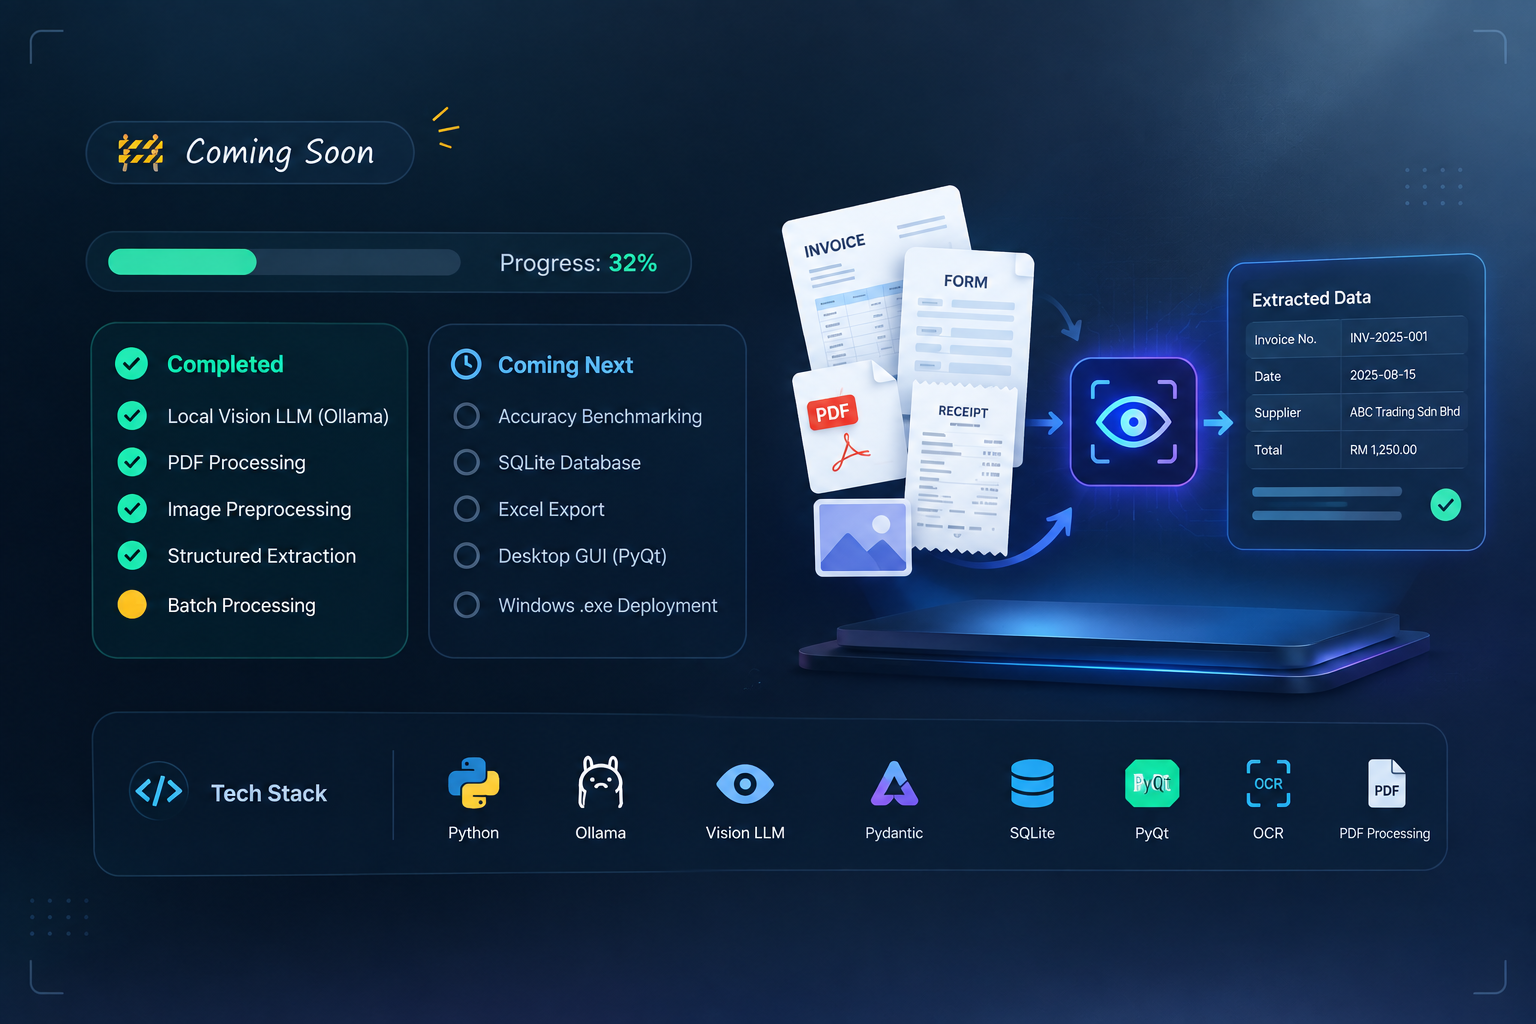
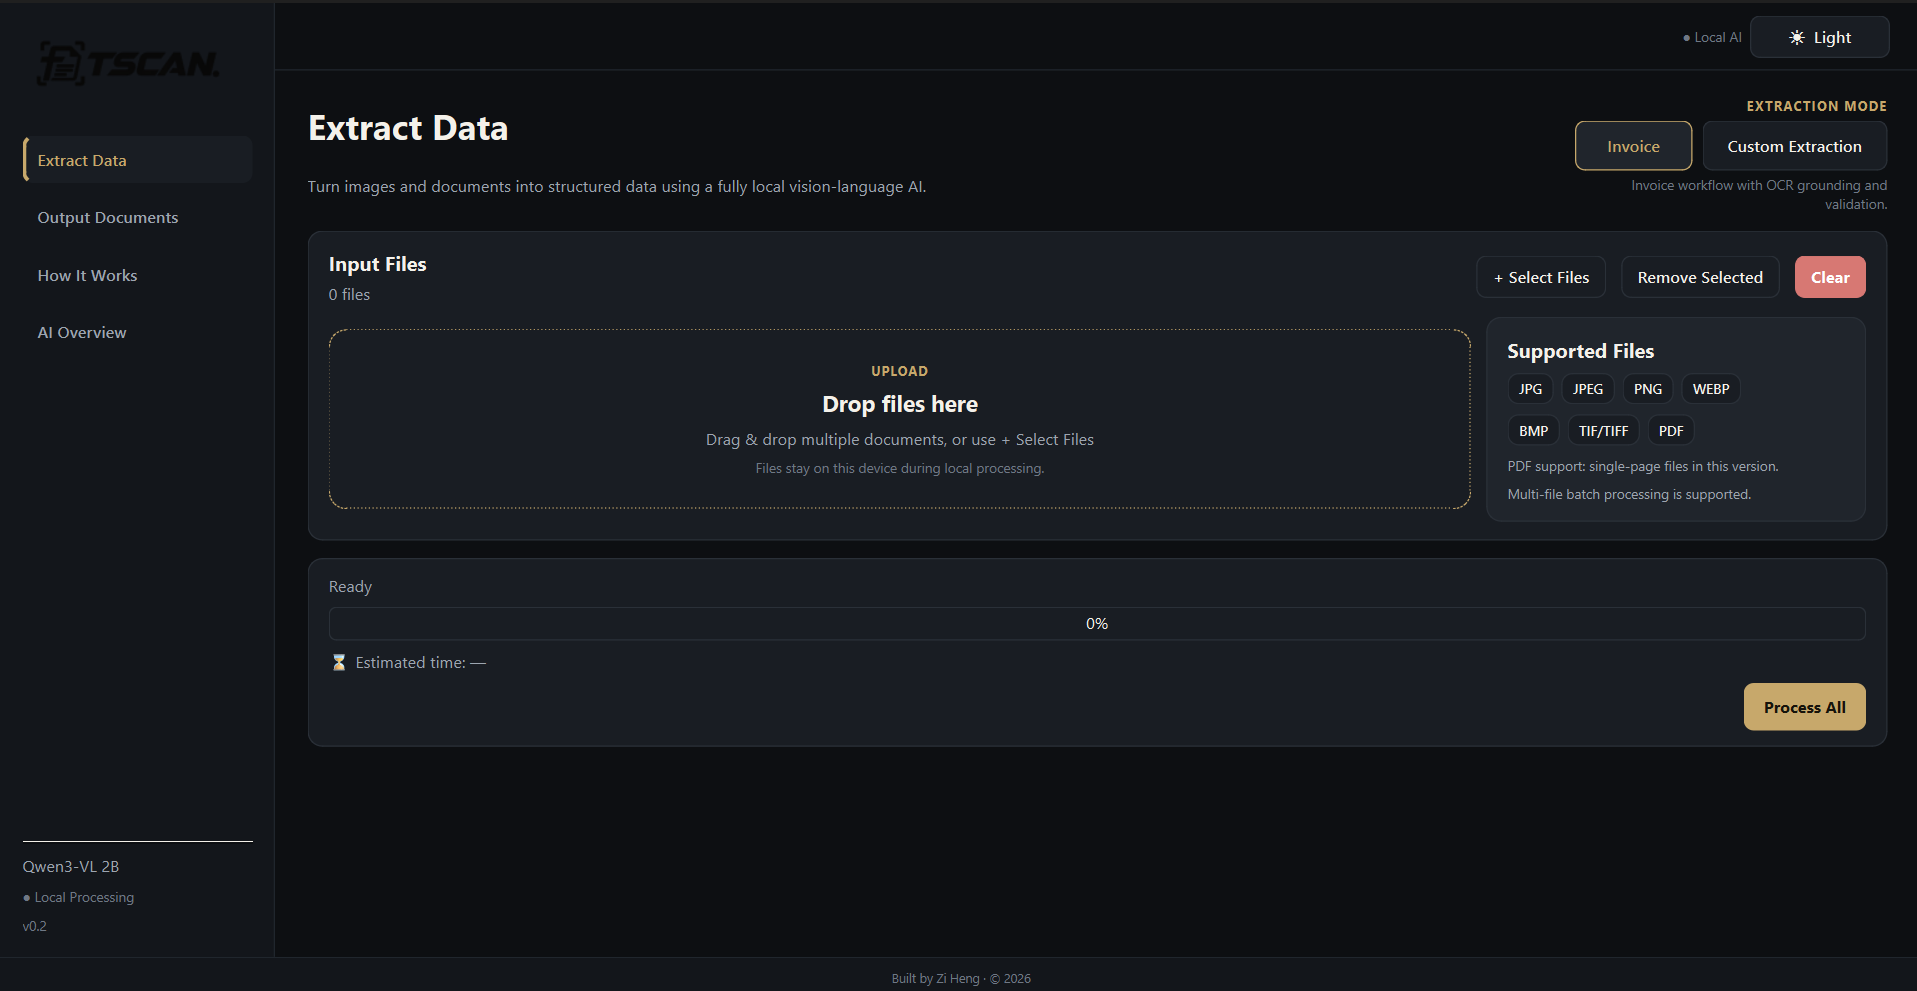
Update new project

diff --git a/archive.html b/archive.html
@@ -617,15 +617,15 @@ const PROJECTS = [
     demo: 'https://www.youtube.com/watch?v=-lDgSbSYgcY'
   },
   {
-    id: 'vision-llm-document-extraction',
+    id: 'LLM-Powered-Document-Data-Extraction-System',
     category: 'applied-work',
     status: 'live',
-    title: '🚧 Coming Soon: Vision LLM Document Extraction System',
-    description: 'A locally hosted Vision AI application capable of extracting structured data from invoices, forms, PDFs, and images.',
-    tags: ['PyQt', 'Ollama', 'Pydantic','SQLite'],
+    title: 'Large-Language-Model-Powered-Document-Data-Extraction-System',
+    description: 'A local AI-powered document extraction platform that converts invoices, receipts, etc. into structured data with up to 99.7% accuracy. The system combines Qwen3-VL for multimodal understanding, RapidOCR for text grounding, and rule-based validation and recovery to improve extraction reliability',
+    tags: ['PyQt', 'Ollama', 'RAPIDOCR', 'Pydantic','SQLite'],
     image: 'project-thumbnails/vision-llm-document-extraction.png',
-    github: '',
-    demo: ''
+    github: 'https://github.com/TeohZiHeng/Large-Language-Model-Powered-Document-Data-Extraction-System/tree/main',
+    demo: 'https://www.youtube.com/watch?v=ndw33Gpt8bU'
   },
   // {
   //   id: 'inquiry-resolution-platform',
@@ -671,17 +671,17 @@ const PROJECTS = [
   //   github: '',
   //   demo: ''
   // },
-  // {
-  //   id: 'arcade-01',
-  //   category: 'arcade',
-  //   status: 'coming-soon',
-  //   title: 'Arcade Project 01',
-  //   description: 'Experimental build slot reserved for a playful prototype, interaction study, or small project made to learn by doing.',
-  //   tags: ['Coming Soon'],
-  //   image: '',
-  //   github: '',
-  //   demo: ''
-  // }
+  {
+    id: 'arcade-01',
+    category: 'arcade',
+    status: 'coming-soon',
+    title: 'Arcade Project 01',
+    description: 'Experimental build slot reserved for a playful prototype, interaction study, or small project made to learn by doing.',
+    tags: ['Coming Soon'],
+    image: '',
+    github: '',
+    demo: ''
+  }
 ];
 
 const CATEGORIES = {

diff --git a/index.html b/index.html
@@ -19,8 +19,8 @@
   --bg-main:    #F3EFE4;
   --bg-sub:     #D8D4C8;
   --text-main:  #1A191E;
-  --btn-color:  #2B2414;
-  --text-sub:   #5C5648;
+  --btn-color:  #d48a1b;
+  --text-sub:   #5c5048;
   --text-mute:  #8A8472;
   --line:       #C9C3B3;
   --surface:    #FAF7EF;
@@ -1579,6 +1579,8 @@ footer { text-align: center; padding: 36px 24px; font-family: var(--font-mono); 
             </div>
           </div>
 
+          
+
           <div class="skill-group">
             <p class="skill-group-title">Tools &amp; Platforms</p>
             <div class="tools-cloud">
@@ -1604,6 +1606,8 @@ footer { text-align: center; padding: 36px 24px; font-family: var(--font-mono); 
           </div>
         </div>
       </section>
+
+      
 
       <!-- ============ 作品集 PORTFOLIO ============ -->
       <section class="section" id="portfolio">
